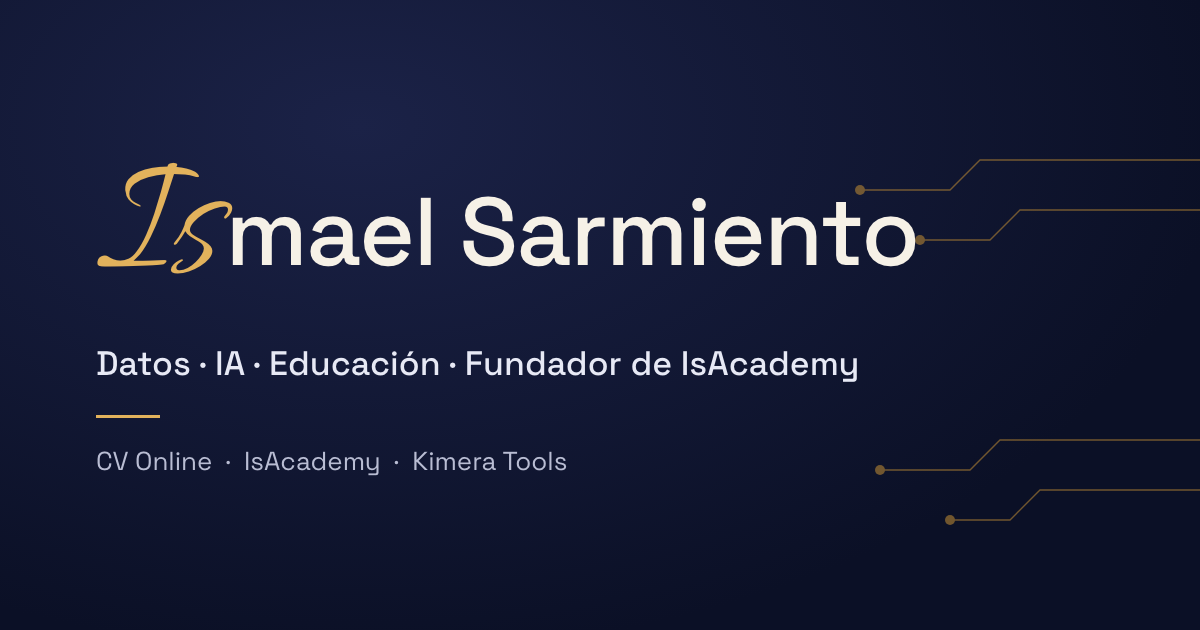
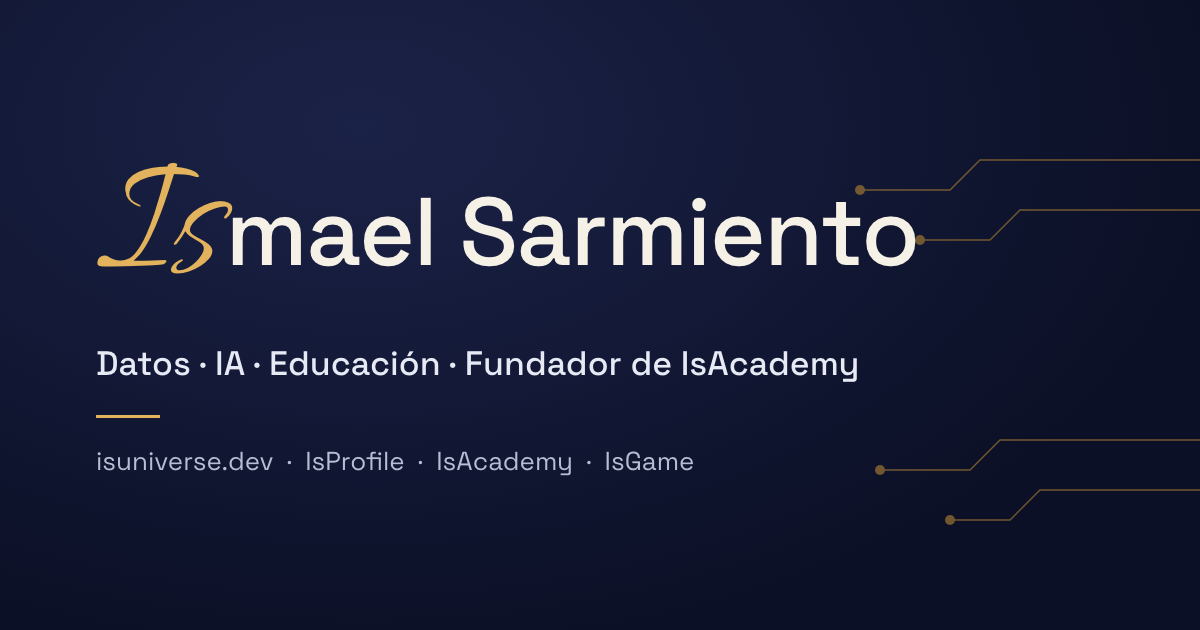
feat: isuniverse.dev and the new paths across Inicio
The portada now lives at https://isuniverse.dev: canonical, hreflang,
Open Graph, JSON-LD, sitemaps, robots and security.txt use the domain;
doors, footer and Alan link to /profile/, /academy/ and /game/. The CV
is named «IsProfile · CV Online» with its own door mark (C10). The
visit signal counts only on isuniverse.dev and never under /game/ or
/isgame/. The share image and the LinkedIn banner show isuniverse.dev.

Changed region(s): [[0.0617, 0.7238, 0.5858, 0.754]]

diff --git a/assets/ds/views.js b/assets/ds/views.js
@@ -1,14 +1,15 @@
 // One page signal for the private panel (IsPanel). Only the path, referring origin and browser language are sent by
 // this script. The Worker may separately retain Cloudflare network context when detailed traffic is enabled.
 // No cookie, browser storage or persistent visitor identifier; Do Not Track and Global Privacy Control are respected.
-// Only on the published site, once per document, and never under /isgame/ (IsGame promises no analytics).
+// Only on the published site (isuniverse.dev), once per document, and never under /game/ or the old /isgame/
+// (IsGame promises no analytics).
 const HIT = 'https://isa-forms.ismaelantonio-professional.workers.dev/hit';
 let counted = false;
 
 export function countView() {
   try {
-    if (counted || location.hostname !== 'ismael-sarmiento.github.io' || navigator.webdriver) return;
-    if (location.pathname.startsWith('/isgame/')) return;
+    if (counted || location.hostname !== 'isuniverse.dev' || navigator.webdriver) return;
+    if (/^\/(?:game|isgame)\//.test(location.pathname)) return;
     if (navigator.doNotTrack === '1' || navigator.globalPrivacyControl) return;
     let referrer = '';
     try {

diff --git a/assets/ds/i18n.js b/assets/ds/i18n.js
@@ -2,7 +2,7 @@
 // included), English with ?lang=en or the visitor's own choice, one page per site and no /en/ folders.
 // The page is written in Spanish with data-i18n keys; the dictionaries are { "key": "text" } (flat) or nested objects.
 //
-//   const i18n = createI18n({ base: 'https://ismael-sarmiento.github.io/cv/', dict: code => `/cv/i18n/${code}.json?v=…` });
+//   const i18n = createI18n({ base: 'https://isuniverse.dev/profile/', dict: code => `/profile/i18n/${code}.json?v=…` });
 //   await i18n.start();      // applies ?lang / the stored choice; [data-action="lang"] buttons switch and remember it
 import { rememberReadingPosition } from './ds.js';
 const SUPPORTED = ['es', 'en'];

diff --git a/assets/ds/tokens.css b/assets/ds/tokens.css
@@ -1,5 +1,5 @@
-/* Ismael Sarmiento design system — tokens shared by every site on ismael-sarmiento.github.io
-   (Inicio /, CV Online /cv/, IsAcademy /isacademy/, which adds only its own console and opening colours).
+/* Ismael Sarmiento design system — tokens shared by every site on isuniverse.dev
+   (Inicio /, IsProfile /profile/, IsAcademy /academy/, which adds only its own console and opening colours).
    Change a value here and every page that links /assets/ds/tokens.css follows. */
 
 @font-face { font-family: 'Allura'; src: url('fonts/allura-latin.woff2') format('woff2'); font-weight: 400; font-display: swap; }

diff --git a/assets/ds/avatar.js b/assets/ds/avatar.js
@@ -1,4 +1,4 @@
-// Shared by every site on ismael-sarmiento.github.io (copied verbatim from IsAcademy js/avatar.js; IsAcademy will import this file).
+// Shared by every site on isuniverse.dev (copied verbatim from IsAcademy js/avatar.js; IsAcademy will import this file).
 // "Alan", the assistant avatar: a friendly flat illustration that resembles Ismael without being him.
 // Skin tones come from CSS variables (--av-skin, --av-shade) so light and dark themes can differ.
 // Animated with CSS: breathing (.av-head), blinking (.av-eyes) and talking (.av-mouth, toggled by .talking).

diff --git a/assets/hub.js b/assets/hub.js
@@ -5,7 +5,7 @@ import { createI18n } from '/assets/ds/i18n.js';
 import { initIntro } from '/assets/ds/intro.js';
 
 const VERSION = new URL(import.meta.url).searchParams.get('v') || 'dev';
-const i18n = createI18n({ base: 'https://ismael-sarmiento.github.io/', dict: code => `/i18n/${code}.json?v=${VERSION}` });
+const i18n = createI18n({ base: 'https://isuniverse.dev/', dict: code => `/i18n/${code}.json?v=${VERSION}` });
 
 // Alan speaks the language of the page; his buttons take the visitor to the CV, IsAcademy, GitHub or the mail
 async function initAlan() {

diff --git a/assets/ds/base.css b/assets/ds/base.css
@@ -1,6 +1,6 @@
 /* Ismael Sarmiento design system — base and shared components (needs tokens.css first).
    1. Base   2. Buttons, cards, chips   3. Top bar and brand   4. Sections and footer   5. Motion and responsive
-   Same behaviour as IsAcademy (/isacademy/css/main.css § 2–3 and the top bar of § 5). */
+   Same behaviour as IsAcademy (/academy/css/main.css § 2–3 and the top bar of § 5). */
 
 /* ===================== 1. Base ===================== */
 * { box-sizing: border-box; }

diff --git a/assets/ds/assistant.css b/assets/ds/assistant.css
@@ -1,4 +1,4 @@
-/* Alan, the assistant shared by every site of Ismael Sarmiento (same look as IsAcademy /isacademy/css/main.css § 7).
+/* Alan, the assistant shared by every site of Ismael Sarmiento (same look as IsAcademy /academy/css/main.css § 7).
    Floating pill with the avatar, a chat panel with typing dots, suggestion chips and action buttons. */
 .as-avatar { display: inline-block; flex: none; }
 .as-avatar svg { width: 100%; height: 100%; display: block; }

diff --git a/tools/build.py b/tools/build.py
@@ -1,10 +1,10 @@
 #!/usr/bin/env python3
-"""Builds the portada of ismael-sarmiento.github.io, the same way IsAcademy and CV Online work:
+"""Builds the portada of isuniverse.dev (repository ismael-sarmiento.github.io), the same way IsAcademy and IsProfile work:
 
   index.html             the page, in Spanish with data-i18n keys (English is /?lang=en, no /en/ folder)
   i18n/es.json, en.json  { "key": "text" } dictionaries for the shared i18n module (/assets/ds/i18n.js)
-  404.html · redirects of the old CV addresses (/index_en.html, /articles/…) to CV Online in /cv/
-  robots.txt · sitemap.xml (index of the portada, /cv/, /isacademy/ and /isgame/ sitemaps) · sitemap-portada.xml
+  404.html · redirects of the old CV addresses (/index_en.html, /articles/…) to IsProfile in /profile/
+  robots.txt · sitemap.xml (index of the portada, /profile/, /academy/ and /game/ sitemaps) · sitemap-portada.xml
 
     python3 tools/build.py 20261014a      # the argument is the asset version (cache busting)
 """
@@ -17,7 +17,7 @@ from pathlib import Path
 
 ROOT = Path(__file__).resolve().parent.parent
 VERSION = sys.argv[1] if len(sys.argv) > 1 else '20261014a'
-SITE = 'https://ismael-sarmiento.github.io'
+SITE = 'https://isuniverse.dev'
 TODAY = '2026-11-05'
 CF_TOKEN = '1af8978bb58b4f6cb3771790a71c784c'  # Cloudflare Web Analytics
 EMAIL = 'ismaelantonio.professional@gmail.com'
@@ -28,8 +28,8 @@ e = lambda s: html.escape(str(s), quote=True)
 # every text of the portada; the keys are the data-i18n keys of the page
 TEXT = {
     'meta.title': ('Ismael Sarmiento · Datos, IA y educación', 'Ismael Sarmiento · Data, AI and education'),
-    'meta.description': ('Ismael Sarmiento diseña y construye plataformas de datos e IA gobernadas y confiables, y fundó IsAcademy para enseñar a pensar con datos e IA. CV Online, academia y código abierto.',
-                         'Ismael Sarmiento designs and builds governed, reliable data and AI platforms, and founded IsAcademy to teach people to think with data and AI. CV Online, academy and open source.'),
+    'meta.description': ('Ismael Sarmiento diseña y construye plataformas de datos e IA gobernadas y confiables, y fundó IsAcademy para enseñar a pensar con datos e IA. IsProfile · CV Online, academia y código abierto.',
+                         'Ismael Sarmiento designs and builds governed, reliable data and AI platforms, and founded IsAcademy to teach people to think with data and AI. IsProfile · CV Online, academy and open source.'),
     'skip': ('Ir al contenido', 'Skip to content'),
     'langLabel': ('Cambiar a inglés', 'Switch to Spanish'),
     'langShort': ('EN', 'ES'),
@@ -43,24 +43,24 @@ TEXT = {
                 'For almost a decade I have been building data platforms: first in banking (BBVA Next Technologies, Santander Global Tech), then at StratioBD and today at Savana, where I lead Data Management in digital health.'),
     'about.1': ('Me obsesiona que el dato sea algo en lo que se pueda confiar: gobernado, interoperable (HL7 FHIR, OMOP CDM) y con una calidad que se mide (UNE 0081). Tengo la certificación CDMP de DAMA International.',
                 'I am obsessed with data people can trust: governed, interoperable (HL7 FHIR, OMOP CDM) and with measurable quality (UNE 0081). I hold the CDMP certification from DAMA International.'),
-    'about.2': ('Y como aprender sigue siendo algo humano, fundé <a href="/isacademy/">IsAcademy</a> para enseñar a pensar con datos e IA.',
-                'And because learning is still human, I founded <a href="/isacademy/?lang=en">IsAcademy</a> to teach people to think with data and AI.'),
+    'about.2': ('Y como aprender sigue siendo algo humano, fundé <a href="/academy/">IsAcademy</a> para enseñar a pensar con datos e IA.',
+                'And because learning is still human, I founded <a href="/academy/?lang=en">IsAcademy</a> to teach people to think with data and AI.'),
     'intro.title': ('Ismael Sarmiento · Inicio', 'Ismael Sarmiento · Home'),
     'intro.skip': ('Saltar intro', 'Skip intro'),
     'intro.enter': ('Conocerme', 'Get to know me'),
     'projects': ('Proyectos', 'Projects'),
     'door.0.text': ('Mi trayectoria en Savana, StratioBD, Santander Global Tech y BBVA Next Technologies: gobierno, interoperabilidad y calidad del dato.',
                     'My career at Savana, StratioBD, Santander Global Tech and BBVA Next Technologies: data governance, interoperability and quality.'),
-    'door.0.cta': ('Ver CV Online', 'View CV Online'),
-    'door.0.href': ('/cv/', '/cv/?lang=en'),
+    'door.0.cta': ('Ver IsProfile · CV Online', 'View IsProfile · CV Online'),
+    'door.0.href': ('/profile/', '/profile/?lang=en'),
     'door.1.text': ('Mi academia online de programación, datos e IA, con clases personalizadas para todas las edades.',
                     'My online academy for programming, data and AI, with tailored lessons for all ages.'),
     'door.1.cta': ('Conocer IsAcademy', 'Discover IsAcademy'),
-    'door.1.href': ('/isacademy/', '/isacademy/?lang=en'),
+    'door.1.href': ('/academy/', '/academy/?lang=en'),
     'door.2.text': ('El juego de mundo abierto de IsAcademy: recorre Neo Academia y aprende datos e IA jugando, en el navegador.',
                     "IsAcademy's open-world game: explore Neo Academia and learn data and AI by playing, in your browser."),
     'door.2.cta': ('Jugar a IsGame', 'Play IsGame'),
-    'door.2.href': ('/isgame/', '/isgame/?lang=en'),
+    'door.2.href': ('/game/', '/game/?lang=en'),
     'door.3.text': ('Mi código abierto: kimera-\u2060python, utilidades de Python para ETL, SQLAlchemy y AWS S3 (2020–\u20602022).',
                     'My open source: kimera-\u2060python, Python utilities for ETL, SQLAlchemy and AWS S3 (2020–\u20602022).'),
     'door.3.cta': ('Ver en GitHub', 'View on GitHub'),
@@ -77,7 +77,7 @@ TEXT = {
 TEXT['privacy.title'] = ('Privacidad y datos', 'Privacy and data')
 TEXT['privacy.date'] = ('Actualizado: 5 de noviembre de 2026', 'Updated: 5 November 2026')
 TEXT['privacy.0.title'] = ('Responsable y contacto', 'Controller and contact')
-TEXT['privacy.0.body'] = ('Ismael Sarmiento es responsable de estas webs (Inicio, CV Online, IsAcademy e IsGame) y de IsPanel, su panel privado. Para consultas y derechos: <a href="mailto:ismaelantonio.professional@gmail.com">ismaelantonio.professional@gmail.com</a>.', 'Ismael Sarmiento is the controller for these websites (Home, CV Online, IsAcademy and IsGame) and IsPanel, his private dashboard. For questions and rights: <a href="mailto:ismaelantonio.professional@gmail.com">ismaelantonio.professional@gmail.com</a>.')
+TEXT['privacy.0.body'] = ('Ismael Sarmiento es responsable de estas webs (Inicio, IsProfile · CV Online, IsAcademy e IsGame) y de IsPanel, su panel privado. Para consultas y derechos: <a href="mailto:ismaelantonio.professional@gmail.com">ismaelantonio.professional@gmail.com</a>.', 'Ismael Sarmiento is the controller for these websites (Home, CV Online, IsAcademy and IsGame) and IsPanel, his private dashboard. For questions and rights: <a href="mailto:ismaelantonio.professional@gmail.com">ismaelantonio.professional@gmail.com</a>.')
 TEXT['privacy.1.title'] = ('Solicitudes de contacto · 90 días', 'Contact requests · 90 days')
 TEXT['privacy.1.body'] = ('Al enviar un formulario se tratan los datos facilitados (nombre, email, mensaje y, cuando los aportes, teléfono, empresa, interés y nivel), web e idioma de origen. Se guardan en una bandeja privada durante 90 días para responder y hacer seguimiento, junto con la IP y el contexto de conexión que Cloudflare facilite. La casilla del formulario recoge tu aceptación; no se usa para suscribirte a publicidad. Puedes retirar tu consentimiento y solicitar la supresión por correo.', 'Submitting a form processes the details you provide (name, email, message and, if supplied, phone, company, interest and level), source website and language. They are kept in a private inbox for 90 days to reply and follow up, with the IP address and available Cloudflare connection context. The form checkbox records your agreement; it does not subscribe you to advertising. You may withdraw consent and request deletion by email.')
 TEXT['privacy.2.title'] = ('Visitas detalladas · 30 días', 'Detailed visits · 30 days')
@@ -93,15 +93,15 @@ TEXT['privacy.5.body'] = ('Puedes solicitar acceso, rectificación, supresión, 
 TEXT['photo.linkedin'] = ('Ver el perfil de Ismael Sarmiento en LinkedIn (se abre en una pestaña nueva)', 'View Ismael Sarmiento’s LinkedIn profile (opens in a new tab)')
 ES = {k: v[0] for k, v in TEXT.items()}
 EN = {k: v[1] for k, v in TEXT.items()}
-# each door carries the mark of its site: the «Is» of the signature, the IsAcademy and IsGame logos and Kimera Tools' «K_»
-DOORS = [('CV Online', 'door.0.href', None, '<span class="door-mark mark-is" aria-hidden="true">Is</span>'),
+# each door carries the mark of its site: the IsProfile, IsAcademy and IsGame logos and Kimera Tools' «K_»
+DOORS = [('IsProfile · CV Online', 'door.0.href', None, '<span class="door-mark mark-isa" aria-hidden="true"><b>Is</b>Profile</span>'),
          ('IsAcademy', 'door.1.href', None, '<span class="door-mark mark-isa" aria-hidden="true"><b>Is</b>Academy</span>'),
          ('IsGame', 'door.2.href', None, '<span class="door-mark mark-isa" aria-hidden="true"><b>Is</b>Game</span>'),
          ('Kimera Tools', None, 'https://github.com/kimera-tools', '<span class="door-mark mark-k" aria-hidden="true">K<i>_</i></span>')]
 
-# Alan on Inicio: the same assistant as CV Online and IsAcademy (/assets/ds/assistant.js), fed with the public story of
+# Alan on Inicio: the same assistant as IsProfile and IsAcademy (/assets/ds/assistant.js), fed with the public story of
 # this page. Answers shared with the CV FAQ keep its wording (cv/data/content.json); nothing here is new information.
-MAIL, CV_PDF = f'mailto:{EMAIL}', {'es': '/cv/ismael-sarmiento-cv.pdf', 'en': '/cv/ismael-sarmiento-cv-en.pdf'}
+MAIL, CV_PDF = f'mailto:{EMAIL}', {'es': '/profile/ismael-sarmiento-cv.pdf', 'en': '/profile/ismael-sarmiento-cv-en.pdf'}
 ALAN = {
     'es': {
         'assistant': {
@@ -111,40 +111,40 @@ ALAN = {
             'greeting': '¡Hola! Soy Alan, el asistente local de la web de Ismael (versión beta). Respondo solo con el contenido público de esta web: no uso datos privados ni modelos externos.',
             'suggestions': ['¿Quién es Ismael?', '¿Qué es IsAcademy?', '¿Qué es Kimera Tools?', '¿Cómo contacto con él?'],
             'fallback': {'answer': 'No tengo una respuesta exacta para eso en esta versión beta. Puedo contarte quién es Ismael, su trayectoria, IsAcademy, IsGame, Kimera Tools, su CV o cómo contactar con él.',
-                         'actions': [{'label': 'Ver CV Online', 'href': '/cv/'}]},
+                         'actions': [{'label': 'Ver IsProfile · CV Online', 'href': '/profile/'}]},
         },
         'faq': [
             {'q': '¿Quién es Ismael?', 'keywords': ['quien', 'ismael', 'sarmiento', 'presentacion', 'sobre'],
              'a': 'Ismael Sarmiento diseña y construye plataformas de datos e IA, y es el fundador de IsAcademy. Lleva casi una década construyendo plataformas de datos: primero en banca (BBVA Next Technologies, Santander Global Tech), después en StratioBD y hoy en Savana, donde lidera Data Management en salud digital. Tiene la certificación CDMP de DAMA International.',
-             'actions': [{'label': 'Ver CV Online', 'href': '/cv/'}]},
+             'actions': [{'label': 'Ver IsProfile · CV Online', 'href': '/profile/'}]},
             {'q': '¿Cuál es su foco principal?', 'keywords': ['foco', 'principal', 'perfil', 'especializacion'],
              'a': 'Su foco es diseñar y construir plataformas de datos e IA gobernadas y confiables que ayudan a las organizaciones a decidir mejor y a crecer con impacto real, combinando ejecución técnica, criterio arquitectónico y liderazgo de equipos.'},
             {'q': '¿Qué hace en Savana?', 'keywords': ['savana', 'head', 'lead', 'data management'],
              'a': 'En Savana pasó de Senior Data Engineer a Lead Data Engineer y después a Head of Data Management, impulsando interoperabilidad clínica con FHIR y OMOP, plataformas de calidad del dato, catálogo y metadatos con herramientas open source de gobierno del dato, y control del ciclo de vida del dato.'},
             {'q': '¿Cuál es su trayectoria?', 'keywords': ['autana', 'bbva', 'career', 'companies', 'empresas', 'experience', 'experiencia', 'santander', 'stratio', 'stratiobd', 'trayectoria'],
              'a': 'Su trayectoria pasa por Autana Consultores de Tecnología, BBVA Next Technologies, Santander Global Tech, StratioBD y Savana: una evolución desde el desarrollo de software y las plataformas de datos hasta liderar Data Management, con foco en gobierno, interoperabilidad y calidad del dato.',
-             'actions': [{'label': 'Ver CV Online', 'href': '/cv/'}]},
+             'actions': [{'label': 'Ver IsProfile · CV Online', 'href': '/profile/'}]},
             {'q': '¿Qué certificaciones tiene?', 'keywords': ['certificacion', 'certificaciones', 'cdmp', 'dama', 'fhir', 'snomed', 'mondragon', 'titulo'],
              'a': 'Tiene la certificación CDMP (Associate) de DAMA International (2026) y es miembro activo de DAMA Spain. También es FHIR Foundational Implementer (2025), Experto en Gobierno y Gestión Estratégica de Datos por Mondragon Unibertsitatea (2024) y tiene los fundamentos de terminología SNOMED CT (2026).'},
             {'q': '¿Lidera equipos?', 'keywords': ['lidera', 'liderazgo', 'lider', 'equipo', 'equipos', 'head', 'manager', 'gestion', 'responsable'],
              'a': 'Sí. Como Head of Data Management en Savana lidera el área de Data Management y equipos de datos de alto rendimiento, sin perder cercanía con la arquitectura, la construcción de soluciones y el diseño de producto.'},
             {'q': '¿Qué es IsAcademy?', 'keywords': ['isacademy', 'academia', 'alumnos', 'cursos', 'fundador', 'clases'],
              'a': 'IsAcademy es la academia online de programación, datos e IA que Ismael fundó en 2023: clases personalizadas de Python, SQL, Big Data, Data Engineering e IA para todas las edades. Su lema: la IA te da respuestas; aquí te enseñamos a pensar.',
-             'actions': [{'label': 'Conocer IsAcademy', 'href': '/isacademy/'}]},
+             'actions': [{'label': 'Conocer IsAcademy', 'href': '/academy/'}]},
             {'q': '¿Qué es IsGame?', 'keywords': ['isgame', 'juego', 'jugar', 'neo academia', 'mundo abierto', 'game'],
              'a': 'IsGame es el juego de mundo abierto de IsAcademy: recorres Neo Academia, una ciudad de datos e IA, hablas con seis mentores y aprendes jugando, directamente en el navegador. Tu progreso se guarda solo en tu navegador.',
-             'actions': [{'label': 'Jugar a IsGame', 'href': '/isgame/'}, {'label': 'Conocer IsAcademy', 'href': '/isacademy/'}]},
+             'actions': [{'label': 'Jugar a IsGame', 'href': '/game/'}, {'label': 'Conocer IsAcademy', 'href': '/academy/'}]},
             {'q': '¿Qué es Kimera Tools?', 'keywords': ['kimera', 'tools', 'codigo', 'abierto', 'github', 'python', 'open source'],
              'a': 'Kimera Tools es su código abierto: kimera-python, utilidades de Python para ETL, SQLAlchemy y AWS S3 (2020–\u20602022).',
              'actions': [{'label': 'Ver en GitHub', 'href': 'https://github.com/kimera-tools'}]},
             {'q': '¿Dónde veo su CV?', 'keywords': ['cv', 'curriculum', 'pdf', 'descargar', 'resume'],
-             'a': 'Su CV Online cuenta su trayectoria en Savana, StratioBD, Santander Global Tech y BBVA Next Technologies, en español e inglés, y también se descarga en PDF.',
-             'actions': [{'label': 'Ver CV Online', 'href': '/cv/'}, {'label': 'Descargar PDF', 'href': CV_PDF['es']}]},
+             'a': 'IsProfile, su CV Online, cuenta su trayectoria en Savana, StratioBD, Santander Global Tech y BBVA Next Technologies, en español e inglés, y también se descarga en PDF.',
+             'actions': [{'label': 'Ver IsProfile · CV Online', 'href': '/profile/'}, {'label': 'Descargar PDF', 'href': CV_PDF['es']}]},
             {'q': '¿Cómo contacto con él?', 'keywords': ['contacto', 'contactar', 'correo', 'email', 'escribir', 'linkedin', 'hablar', 'whatsapp', 'telefono', 'llamar', 'movil'],
              'a': f'Por correo ({EMAIL}), por WhatsApp o teléfono (+34 613 371 874) o por LinkedIn. Todo está al pie de esta página.',
              'actions': [{'label': 'WhatsApp', 'href': 'https://wa.me/34613371874?text=Hola%20Ismael%2C%20he%20visto%20tu%20web%20y%20me%20gustar%C3%ADa%20hablar%20contigo.'}, {'label': 'Escribir un correo', 'href': MAIL}, {'label': 'LinkedIn', 'href': LINKEDIN}]},
             {'q': '¿Qué puedes hacer?', 'keywords': ['puedes hacer', 'capacidades', 'asistente', 'ayuda'],
-             'a': 'Puedo contarte quién es Ismael, resumir su trayectoria, explicarte IsAcademy, IsGame y Kimera Tools, y llevarte a su CV Online o a su contacto.'},
+             'a': 'Puedo contarte quién es Ismael, resumir su trayectoria, explicarte IsAcademy, IsGame y Kimera Tools, y llevarte a IsProfile (su CV Online) o a su contacto.'},
             {'q': '¿Puedes dar datos privados?', 'keywords': ['privados', 'confidencial', 'datos', 'secretos', 'privacidad'],
              'a': 'No. Este asistente está limitado al contenido público de esta web y no tiene acceso a datos privados, credenciales, métricas sensibles ni información confidencial de Ismael o de las empresas en las que ha trabajado.'},
         ],
@@ -157,40 +157,40 @@ ALAN = {
             'greeting': "Hi! I'm Alan, the local assistant of Ismael's site (beta). I only answer from the public content of this site: no private data and no external models.",
             'suggestions': ['Who is Ismael?', 'What is IsAcademy?', 'What is Kimera Tools?', 'How can I contact him?'],
             'fallback': {'answer': 'I do not have an exact answer for that in this beta version. I can tell you who Ismael is, his career, IsAcademy, IsGame, Kimera Tools, his CV or how to contact him.',
-                         'actions': [{'label': 'View CV Online', 'href': '/cv/?lang=en'}]},
+                         'actions': [{'label': 'View IsProfile · CV Online', 'href': '/profile/?lang=en'}]},
         },
         'faq': [
             {'q': 'Who is Ismael?', 'keywords': ['who', 'ismael', 'sarmiento', 'introduction', 'about'],
              'a': 'Ismael Sarmiento designs and builds data and AI platforms, and is the founder of IsAcademy. For almost a decade he has been building data platforms: first in banking (BBVA Next Technologies, Santander Global Tech), then at StratioBD and today at Savana, where he leads Data Management in digital health. He holds the CDMP certification from DAMA International.',
-             'actions': [{'label': 'View CV Online', 'href': '/cv/?lang=en'}]},
+             'actions': [{'label': 'View IsProfile · CV Online', 'href': '/profile/?lang=en'}]},
             {'q': 'What is his main focus?', 'keywords': ['focus', 'main', 'specialization', 'profile'],
              'a': 'His focus is designing and building governed, reliable data and AI platforms that help organisations make better decisions and grow with real impact, combining technical execution, architectural judgment and team leadership.'},
             {'q': 'What does he do at Savana?', 'keywords': ['savana', 'head', 'lead', 'data management'],
              'a': 'At Savana, he progressed from Senior Data Engineer to Lead Data Engineer and then to Head of Data Management, driving clinical interoperability with FHIR and OMOP, data quality platforms, metadata and cataloguing with open-source data governance tools, and lifecycle control.'},
             {'q': 'What is his career path?', 'keywords': ['autana', 'bbva', 'career', 'companies', 'empresas', 'experience', 'experiencia', 'path', 'santander', 'stratio', 'stratiobd'],
              'a': 'His path goes through Autana Consultores de Tecnología, BBVA Next Technologies, Santander Global Tech, StratioBD and Savana: an evolution from software development and data platforms to leading Data Management, focused on data governance, interoperability and quality.',
-             'actions': [{'label': 'View CV Online', 'href': '/cv/?lang=en'}]},
+             'actions': [{'label': 'View IsProfile · CV Online', 'href': '/profile/?lang=en'}]},
             {'q': 'What certifications does he hold?', 'keywords': ['certification', 'certifications', 'cdmp', 'dama', 'fhir', 'snomed', 'mondragon', 'degree'],
              'a': 'He holds the CDMP (Associate) certification from DAMA International (2026) and is an active member of DAMA Spain. He is also a FHIR Foundational Implementer (2025), an Expert in Data Governance and Strategic Data Management from Mondragon Unibertsitatea (2024) and holds SNOMED CT terminology fundamentals (2026).'},
             {'q': 'Does he lead teams?', 'keywords': ['lead', 'leads', 'leadership', 'leader', 'team', 'teams', 'head', 'manager', 'management'],
              'a': 'Yes. As Head of Data Management at Savana he leads the Data Management area and high-performing data teams, while staying close to architecture, solution building and product design.'},
             {'q': 'What is IsAcademy?', 'keywords': ['isacademy', 'academy', 'students', 'courses', 'founder', 'lessons'],
              'a': 'IsAcademy is the online academy for programming, data and AI that Ismael founded in 2023: tailored lessons in Python, SQL, Big Data, Data Engineering and AI for all ages. Its motto: AI gives you answers; here we teach you how to think.',
-             'actions': [{'label': 'Discover IsAcademy', 'href': '/isacademy/?lang=en'}]},
+             'actions': [{'label': 'Discover IsAcademy', 'href': '/academy/?lang=en'}]},
             {'q': 'What is IsGame?', 'keywords': ['isgame', 'game', 'play', 'neo academia', 'open world', 'open-world'],
              'a': "IsGame is IsAcademy's open-world game: you explore Neo Academia, a city of data and AI, talk to six mentors and learn by playing, right in your browser. Your progress stays in your browser.",
-             'actions': [{'label': 'Play IsGame', 'href': '/isgame/?lang=en'}, {'label': 'Discover IsAcademy', 'href': '/isacademy/?lang=en'}]},
+             'actions': [{'label': 'Play IsGame', 'href': '/game/?lang=en'}, {'label': 'Discover IsAcademy', 'href': '/academy/?lang=en'}]},
             {'q': 'What is Kimera Tools?', 'keywords': ['kimera', 'tools', 'code', 'open source', 'github', 'python'],
              'a': 'Kimera Tools is his open source: kimera-python, Python utilities for ETL, SQLAlchemy and AWS S3 (2020–\u20602022).',
              'actions': [{'label': 'View on GitHub', 'href': 'https://github.com/kimera-tools'}]},
             {'q': 'Where can I see his CV?', 'keywords': ['cv', 'resume', 'curriculum', 'pdf', 'download'],
-             'a': 'His CV Online tells his career at Savana, StratioBD, Santander Global Tech and BBVA Next Technologies, in Spanish and English, and it can also be downloaded as a PDF.',
-             'actions': [{'label': 'View CV Online', 'href': '/cv/?lang=en'}, {'label': 'Download PDF', 'href': CV_PDF['en']}]},
+             'a': 'IsProfile, his CV Online, tells his career at Savana, StratioBD, Santander Global Tech and BBVA Next Technologies, in Spanish and English, and it can also be downloaded as a PDF.',
+             'actions': [{'label': 'View IsProfile · CV Online', 'href': '/profile/?lang=en'}, {'label': 'Download PDF', 'href': CV_PDF['en']}]},
             {'q': 'How can I contact him?', 'keywords': ['contact', 'email', 'mail', 'write', 'linkedin', 'reach', 'talk', 'whatsapp', 'phone', 'call', 'mobile'],
              'a': f'By email ({EMAIL}), on WhatsApp or by phone (+34 613 371 874), or on LinkedIn. Everything is at the foot of this page.',
              'actions': [{'label': 'WhatsApp', 'href': 'https://wa.me/34613371874?text=Hi%20Ismael%2C%20I%20saw%20your%20website%20and%20would%20like%20to%20talk%20with%20you.'}, {'label': 'Send an email', 'href': MAIL}, {'label': 'LinkedIn', 'href': LINKEDIN}]},
             {'q': 'What can you do?', 'keywords': ['can you do', 'capabilities', 'assistant', 'help'],
-             'a': 'I can tell you who Ismael is, summarise his career, explain IsAcademy, IsGame and Kimera Tools, and take you to his CV Online or his contact details.'},
+             'a': 'I can tell you who Ismael is, summarise his career, explain IsAcademy, IsGame and Kimera Tools, and take you to IsProfile (his CV Online) or his contact details.'},
             {'q': 'Can you share private data?', 'keywords': ['private data', 'confidential', 'credentials', 'sensitive', 'privacy'],
              'a': 'No. This assistant is limited to the public content of this site and has no access to private data, credentials, sensitive metrics, or confidential information from Ismael or the companies he has worked with.'},
         ],
@@ -233,7 +233,7 @@ PERSON = {
         {'@type': 'Person', '@id': f'{SITE}/#person', 'name': 'Ismael Sarmiento', 'alternateName': 'Ismael A. Sarmiento', 'url': f'{SITE}/',
          'image': f'{SITE}/assets/brand/ismael.jpg', 'jobTitle': 'Head of Data Management',
          'worksFor': {'@type': 'Organization', 'name': 'Savana', 'url': 'https://savanamed.com/about-us/'},
-         'founder': {'@id': f'{SITE}/isacademy/#org'},
+         'founder': {'@id': f'{SITE}/academy/#org'},
          'memberOf': {'@type': 'Organization', 'name': 'DAMA Spain', 'url': 'https://www.damaspain.org/'},
          'hasCredential': {'@type': 'EducationalOccupationalCredential', 'name': 'CDMP Certification – Associate', 'credentialCategory': 'certification',
                            'recognizedBy': {'@type': 'Organization', 'name': 'DAMA International'}},
@@ -293,7 +293,7 @@ def toggles():
 
 
 # the circuit lines of the brand (/assets/ds/circuit.css): in the intro the same traces as IsAcademy's intro, in the hero a
-# column on the right; CV Online's tools/build.py carries the same two drawings
+# column on the right; IsProfile's tools/build.py carries the same two drawings
 CIRCUIT_INTRO = '''<svg class="ds-circuit ds-circuit--intro" viewBox="0 0 1600 900" preserveAspectRatio="xMidYMid slice" aria-hidden="true" focusable="false">
       <path pathLength="1" d="M1600 150 H1380 L1340 190 H1180"/><circle cx="1180" cy="190" r="5"/>
       <path pathLength="1" d="M1600 210 H1440 L1400 250 H1290"/><circle cx="1290" cy="250" r="5"/>
@@ -309,7 +309,7 @@ CIRCUIT_HERO = '''<svg class="ds-circuit ds-circuit--hero" viewBox="0 0 600 600"
 
 
 def intro():
-    """The intro shared with CV Online (/assets/ds/intro.js): the signature, the role, the slogan and two ways in."""
+    """The intro shared with IsProfile and IsAcademy (/assets/ds/intro.js): the signature, the role, the slogan and two ways in."""
     return f'''<div id="intro" class="intro" role="dialog" aria-modal="true" aria-labelledby="intro-title">
     {CIRCUIT_INTRO}
     <div class="intro-top">{toggles()}<button class="btn" type="button" data-action="skip">{T('intro.skip')}</button></div>
@@ -343,7 +343,7 @@ def footer():
       <span>© <span data-year>2026</span> Ismael Sarmiento</span>
       <!-- the footer of every site of the universe: the other sites, the ways to reach Ismael, Privacy, back to top (CV, IsAcademy) -->
       <nav class="footer-links" {A('aria-label', 'contact')}>
-        <a {A('href', 'door.0.href')}>CV Online</a>
+        <a {A('href', 'door.0.href')}>IsProfile · CV Online</a>
         <a {A('href', 'door.1.href')}>IsAcademy</a>
         <a {A('href', 'door.2.href')}>IsGame</a>
         <a {A('href', 'waHref')} rel="noopener">WhatsApp</a>
@@ -432,7 +432,7 @@ def home():
 
 def privacy():
     css = '.privacy-page main{max-width:900px;padding-block:7rem 3rem;line-height:1.75}.privacy-page section{margin-block:1rem;padding:clamp(1rem,4vw,2rem)}.privacy-page section h2{font-size:clamp(1.2rem,3vw,1.5rem);line-height:1.3}.privacy-page section p{margin-bottom:0}'
-    extra = '<link rel="canonical" href="https://ismael-sarmiento.github.io/privacy/"><style>' + css + '</style>'
+    extra = f'<link rel="canonical" href="{SITE}/privacy/"><style>' + css + '</style>'
     page_head = head('Privacidad · Ismael Sarmiento', 'Datos, conservación, proveedores y derechos de las webs de Ismael Sarmiento.', extra).replace("style-src 'self'", f"style-src 'self' 'sha256-{sha(css)}'")
     sections = ''.join(f'<section class="card card--static">{T(f"privacy.{i}.title", "h2")}{T(f"privacy.{i}.body", "p", rich=True)}</section>' for i in (0, 1, 2, 6, 3, 4, 5))   # 6 = IsGame, after the visits it does not send
     return f'''<!doctype html>
@@ -478,7 +478,7 @@ def not_found():
     <p class="eyebrow">404</p>
     {T('nf.title', 'h1')}
     {T('nf.lead', 'p', 'lead')}
-    <p class="nf-actions"><a class="btn btn-primary btn-arrow" {A('href', 'homeHref')}>{T('nf.home')}</a><a class="btn" {A('href', 'door.0.href')}>CV Online</a><a class="btn" {A('href', 'door.1.href')}>IsAcademy</a></p>
+    <p class="nf-actions"><a class="btn btn-primary btn-arrow" {A('href', 'homeHref')}>{T('nf.home')}</a><a class="btn" {A('href', 'door.0.href')}>IsProfile · CV Online</a><a class="btn" {A('href', 'door.1.href')}>IsAcademy</a></p>
   </main>
   {footer()}
 </body>
@@ -498,16 +498,16 @@ if __name__ == '__main__':
     write('i18n/es.json', json.dumps(ES, ensure_ascii=False, indent=0))
     write('i18n/en.json', json.dumps(EN, ensure_ascii=False, indent=0))
     write('404.html', not_found())
-    write('index_en.html', redirect('/cv/?lang=en', 'CV Online (English)'))
-    write('articles/index.html', redirect('/cv/', 'CV Online'))
-    write('articles/index_en.html', redirect('/cv/?lang=en', 'CV Online (English)'))
+    write('index_en.html', redirect('/profile/?lang=en', 'IsProfile · CV Online (English)'))
+    write('articles/index.html', redirect('/profile/', 'IsProfile · CV Online'))
+    write('articles/index_en.html', redirect('/profile/?lang=en', 'IsProfile · CV Online (English)'))
     write('robots.txt', f'User-agent: *\nAllow: /\n\nSitemap: {SITE}/sitemap.xml\n')
     write('sitemap.xml', f'''<?xml version="1.0" encoding="UTF-8"?>
 <sitemapindex xmlns="http://www.sitemaps.org/schemas/sitemap/0.9">
   <sitemap><loc>{SITE}/sitemap-portada.xml</loc><lastmod>{TODAY}</lastmod></sitemap>
-  <sitemap><loc>{SITE}/cv/sitemap.xml</loc><lastmod>{TODAY}</lastmod></sitemap>
-  <sitemap><loc>{SITE}/isacademy/sitemap.xml</loc></sitemap>
-  <sitemap><loc>{SITE}/isgame/sitemap.xml</loc></sitemap>
+  <sitemap><loc>{SITE}/profile/sitemap.xml</loc><lastmod>{TODAY}</lastmod></sitemap>
+  <sitemap><loc>{SITE}/academy/sitemap.xml</loc></sitemap>
+  <sitemap><loc>{SITE}/game/sitemap.xml</loc></sitemap>
 </sitemapindex>
 ''')
     write('sitemap-portada.xml', f'''<?xml version="1.0" encoding="UTF-8"?>

diff --git a/tools/social.py b/tools/social.py
@@ -44,7 +44,7 @@ PAGES = {
 <div style="position:relative;display:flex;align-items:baseline"><span class="is" style="font-size:170px;line-height:1">Is</span><span style="font-size:96px;font-weight:500;letter-spacing:-1.5px;margin-left:6px">mael Sarmiento</span></div>
 <p style="position:relative;font-size:34px;font-weight:500;color:#e7e9f5;margin-top:22px">Datos · IA · Educación · Fundador de IsAcademy</p>
 <div style="width:64px;height:3px;background:{GOLD_DARK};margin:30px 0 26px"></div>
-<p style="position:relative;font-size:26px;color:{MIST}">CV Online &nbsp;·&nbsp; IsAcademy &nbsp;·&nbsp; Kimera Tools</p></body>'''),
+<p style="position:relative;font-size:26px;color:{MIST}">isuniverse.dev &nbsp;·&nbsp; IsProfile &nbsp;·&nbsp; IsAcademy &nbsp;·&nbsp; IsGame</p></body>'''),
     'social/avatar-dark.png': (1024, 1024, f'{BASE}<body style="background:{NIGHT};display:grid;place-items:center"><div style="width:94%">{mono(GOLD_DARK)}</div></body>'),
     'social/avatar-light.png': (1024, 1024, f'{BASE}<body style="background:{CREAM};display:grid;place-items:center"><div style="width:94%">{mono(GOLD_LIGHT)}</div></body>'),
     'social/linkedin-banner.png': (1584, 396, f'''{BASE}<body class="night" style="position:relative;display:flex;align-items:center;justify-content:flex-end;padding:0 96px 0 520px">
@@ -53,11 +53,13 @@ PAGES = {
 <div><p style="font-size:44px;font-weight:500;letter-spacing:-.5px">Ismael Sarmiento</p>
 <div style="width:56px;height:3px;background:{GOLD_DARK};margin:16px 0 18px"></div>
 <p style="font-size:24px;line-height:1.45;color:#e7e9f5;max-width:760px">{SLOGAN}</p>
-<p style="font-size:19px;color:{MIST};margin-top:16px;letter-spacing:.3px">ismael-sarmiento.github.io &nbsp;·&nbsp; CV Online &nbsp;·&nbsp; IsAcademy</p></div></div></body>'''),
+<p style="font-size:19px;color:{MIST};margin-top:16px;letter-spacing:.3px">isuniverse.dev &nbsp;·&nbsp; IsProfile &nbsp;·&nbsp; IsAcademy &nbsp;·&nbsp; IsGame</p></div></div></body>'''),
 }
 
 if __name__ == '__main__':
-    for name, (w, h, html) in PAGES.items():
+    import sys
+    wanted = sys.argv[1:] or list(PAGES)   # e.g. python3 tools/social.py og.png
+    for name, (w, h, html) in ((n, PAGES[n]) for n in wanted):
         out = BRAND / name
         out.parent.mkdir(parents=True, exist_ok=True)
         with tempfile.NamedTemporaryFile('w', suffix='.html', delete=False) as tmp:
